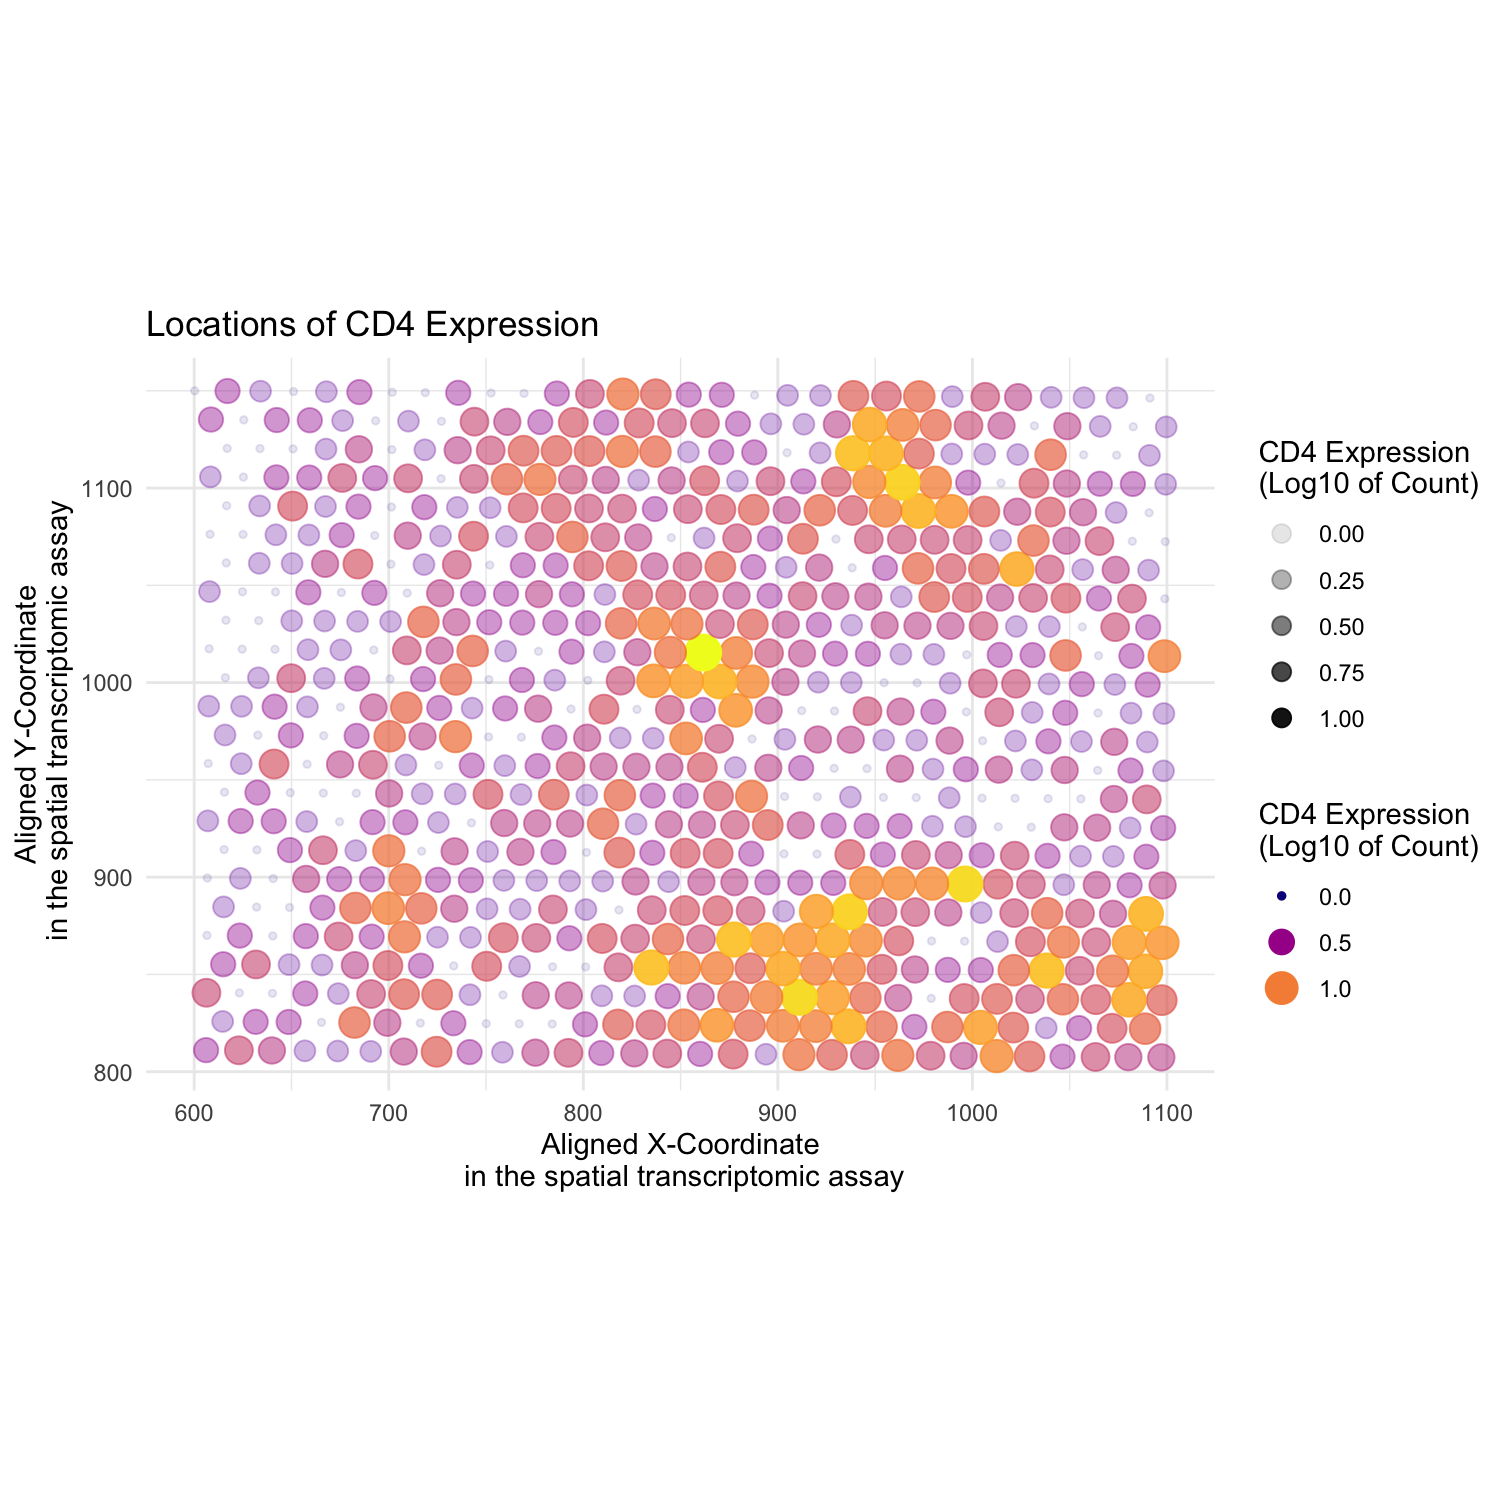
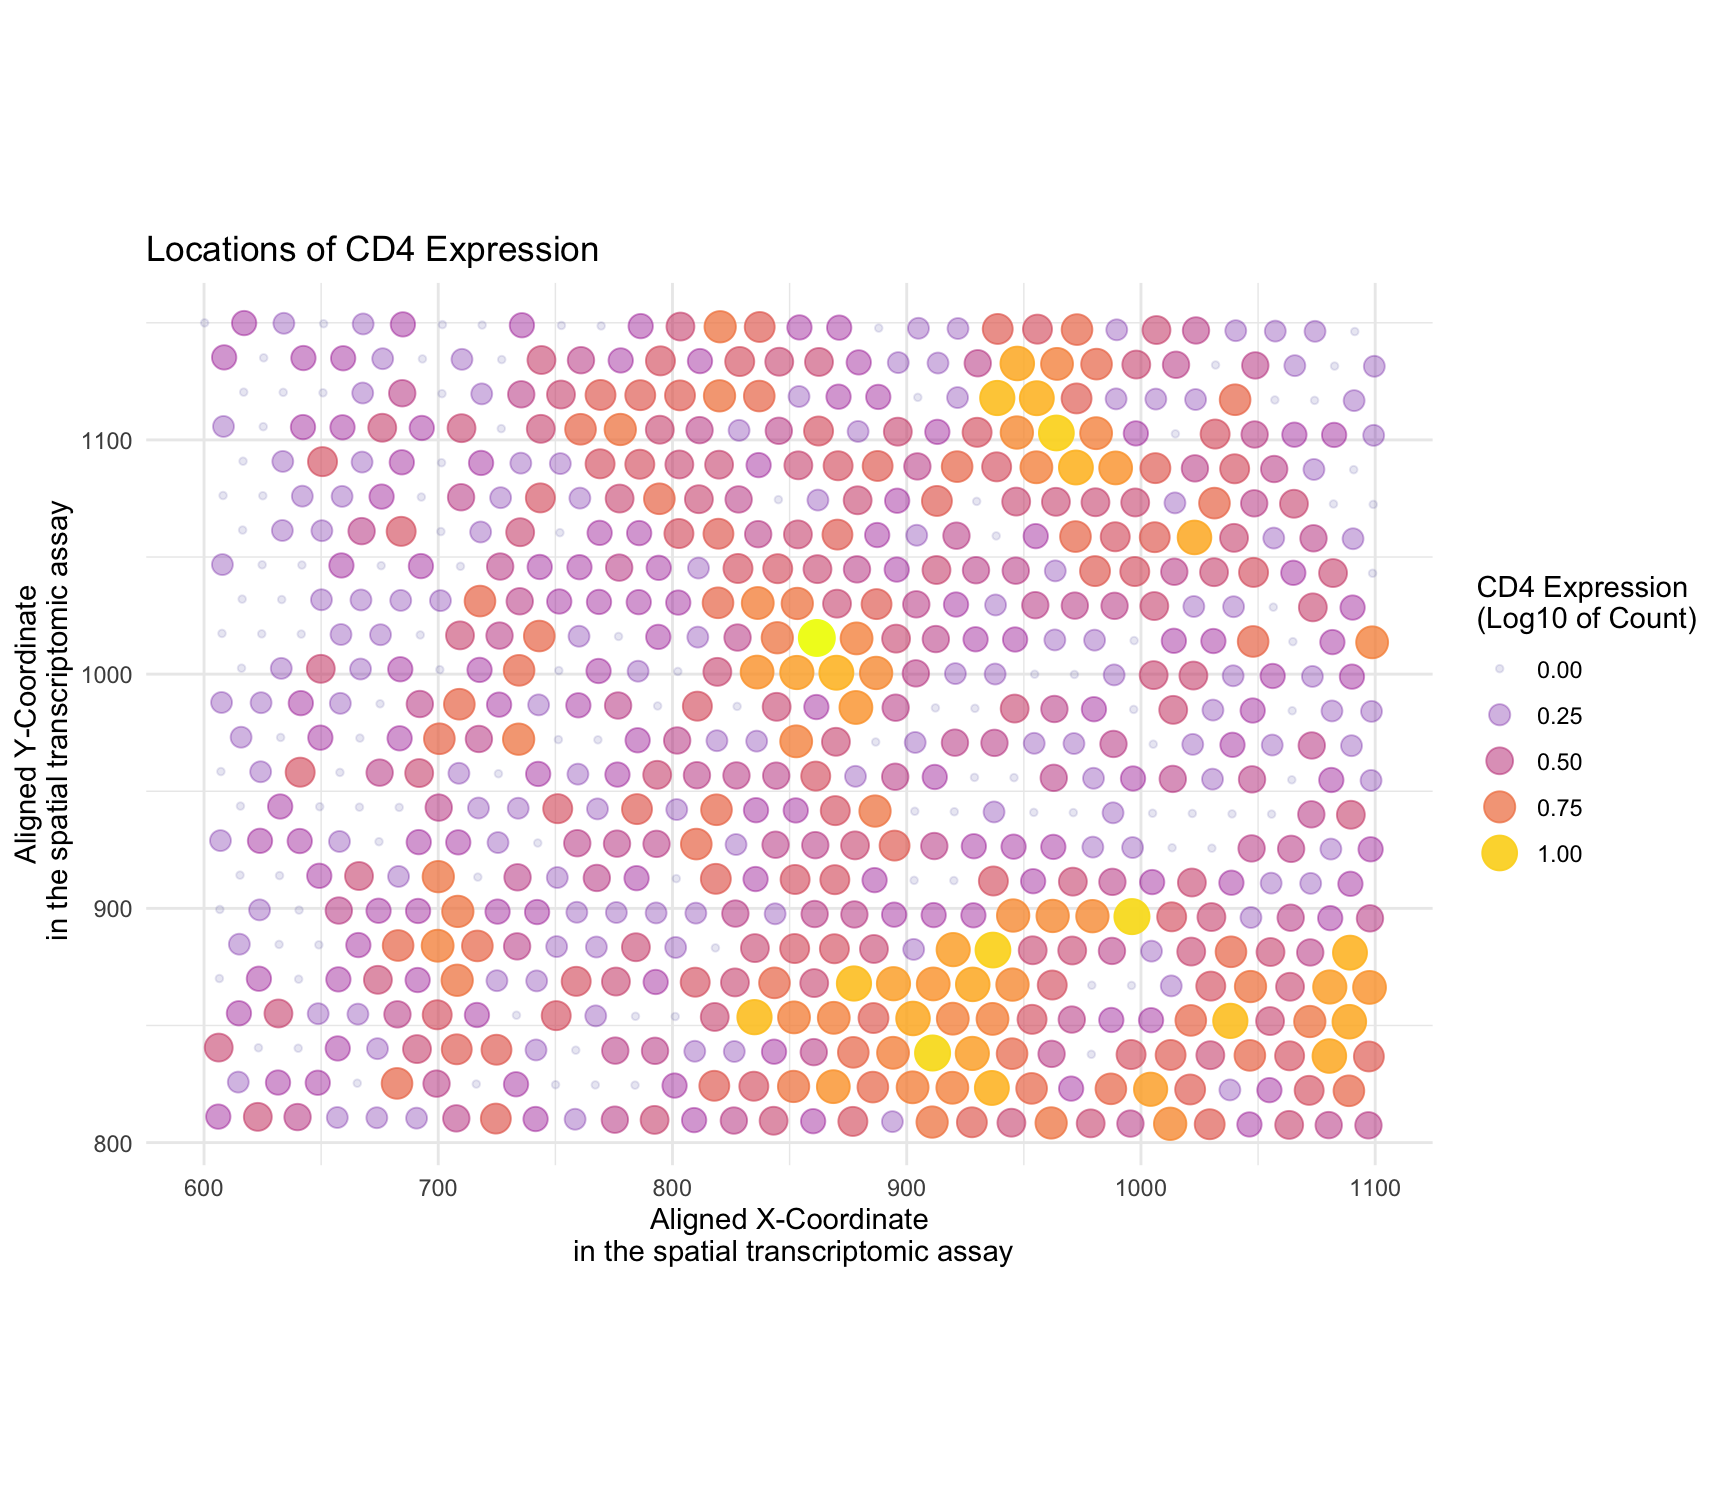
Final commit

diff --git a/_posts/2024-01-31-nsoley1.md b/_posts/2024-01-31-nsoley1.md
@@ -18,11 +18,11 @@ featured: false
 
     -   **Improvements in the data visualization:**
 
-        I adjusted the alpha values for transparency, using a factor of 0.8 multiplied by the log-transformed CD4 expression count. This modification refines the transparency effect, making areas with higher CD4 expression more distinguishable while maintaining the overall aesthetic balance. I included of the size aesthetic in the geom_point() layer for the representation of CD4 expression through point size, providing an additional visual channel to the spatial distribution. I combined the color and size legends into a single panel, offering a more cohesive and streamlined presentation of the CD4 expression information. I changed the alpha legend by overriding its aesthetics with a size of 3. This ensures that the size of the points in the alpha legend aligns with the actual plot, contributing to a more clear representation of the data. I have also added the theme to `theme_minimal()` which contributes to a cleaner and more focused presentation, and emphasizing the spatial distribution of CD4 expression. I also corrected the typo in the title.
+        I adjusted the alpha values for transparency, using a factor of 0.8 multiplied by the log-transformed CD4 expression count. This modification refines the transparency effect, making areas with higher CD4 expression more distinguishable while maintaining the overall aesthetic balance. I included of the size aesthetic in the geom_point() layer for the representation of CD4 expression through point size, providing an additional visual channel to the spatial distribution. I combined the color saturation, transparency and size legends into a single panel, offering a more cohesive and streamlined presentation of the CD4 expression information. I have also added the theme to `theme_minimal()` which contributes to a cleaner and more focused presentation, and emphasizing the spatial distribution of CD4 expression. I also corrected the typo in the title.
 
     -   **Improvements in making the Salient Point:**
 
-        The salient point the author aims to emphasize is the specific locations of CD4 expression. The adjustment in alpha values contributes to a more nuanced transparency effect, allowing viewers to better discern the spatial patterns of CD4 expression. Including the size aesthetic provides an additional visual channel, making it easier for viewers to perceive and differentiate the levels of CD4 expression at different spatial locations. By mapping both color and size to the same log-transformed CD4 expression count, I am trying to establish a consistent relationship between these aesthetics. This integration allows viewers to interpret CD4 expression information through both color and size, reinforcing the understanding of magnitude of expression levels at specific locations in the spatial transcriptomic assay.
+        The salient point the author aims to emphasize is the specific locations of CD4 expression. The adjustment in alpha values contributes to a more nuanced transparency effect, allowing viewers to better discern the spatial patterns of CD4 expression. Including the size aesthetic provides an additional visual channel, making it easier for viewers to perceive and differentiate the levels of CD4 expression at different spatial locations. By mapping transparency, color and size to the same log-transformed CD4 expression count legend, I am trying to establish a consistent relationship between these aesthetics and visual channels. This integration allows viewers to interpret CD4 expression information in a easier way, reinforcing the understanding of magnitude of expression levels at specific locations in the spatial transcriptomic assay. For example- bigger, higher saturation, and opaque dots correspond to higher expression.
 
 Code      
 ```{r}
@@ -35,11 +35,11 @@ data <- read.csv('/Users/nidhisoley/Desktop/GDataViz/eevee.csv.gz', row.names = 
 
 #ggplot
 plot_CD4 <- ggplot(data) +
-  geom_point(aes(x = aligned_x, y = aligned_y, col = log10(CD4 + 1), alpha = 0.8 * log10(CD4 + 1), size = log10(CD4 + 1)), shape = 19) +
-  scale_color_viridis(option='plasma') +
+  geom_point(aes(x = aligned_x, y = aligned_y, col = 0.8*log10(CD4 + 1), alpha = 0.8 * log10(CD4 + 1), size = 0.8*log10(CD4 + 1)), shape = 19) +
+  scale_color_viridis(option="plasma") +
   guides(
     color = guide_legend(title = "CD4 Expression\n(Log10 of Count)"),
-    alpha = guide_legend(title = "CD4 Expression\n(Log10 of Count)", override.aes = list(size = 3)),
+    alpha = guide_legend(title = "CD4 Expression\n(Log10 of Count)"),
     size = guide_legend(title = "CD4 Expression\n(Log10 of Count)")
   )
 
